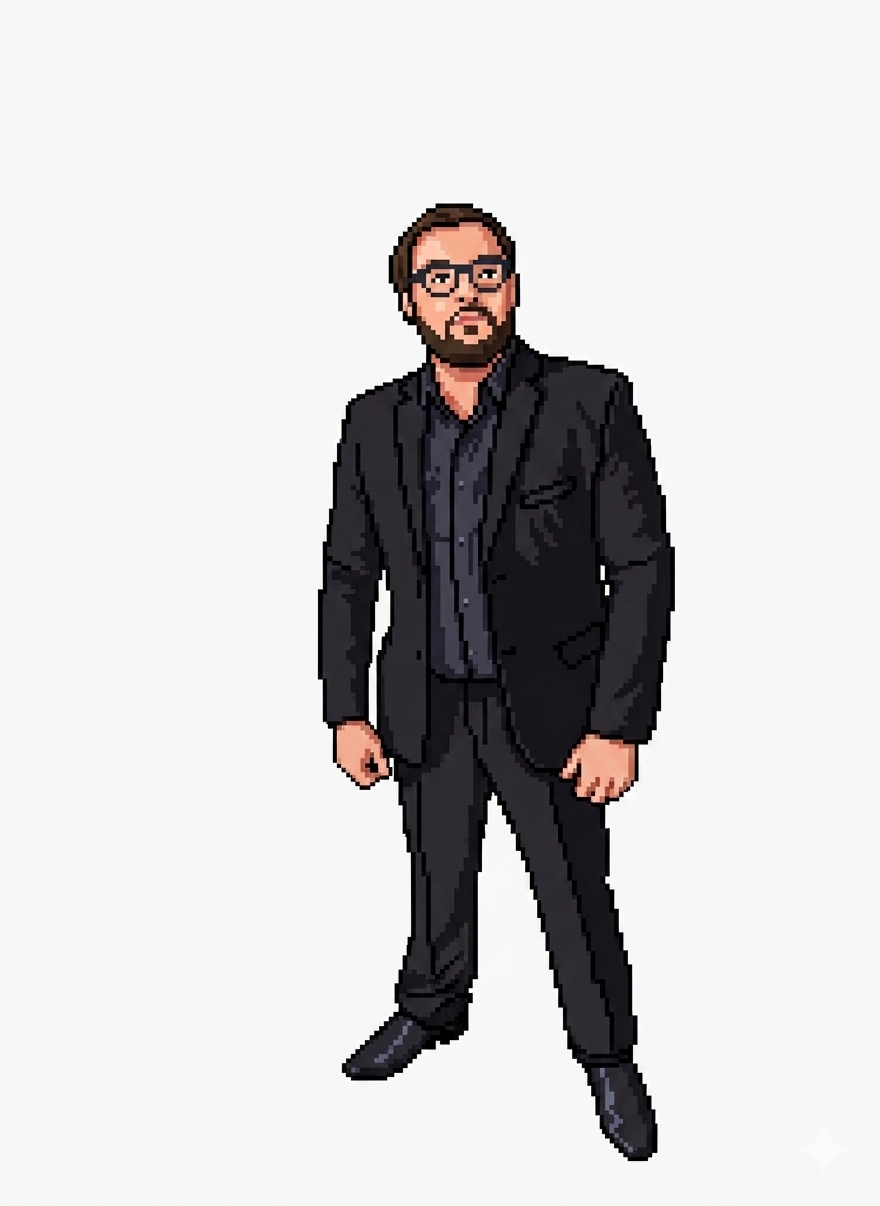
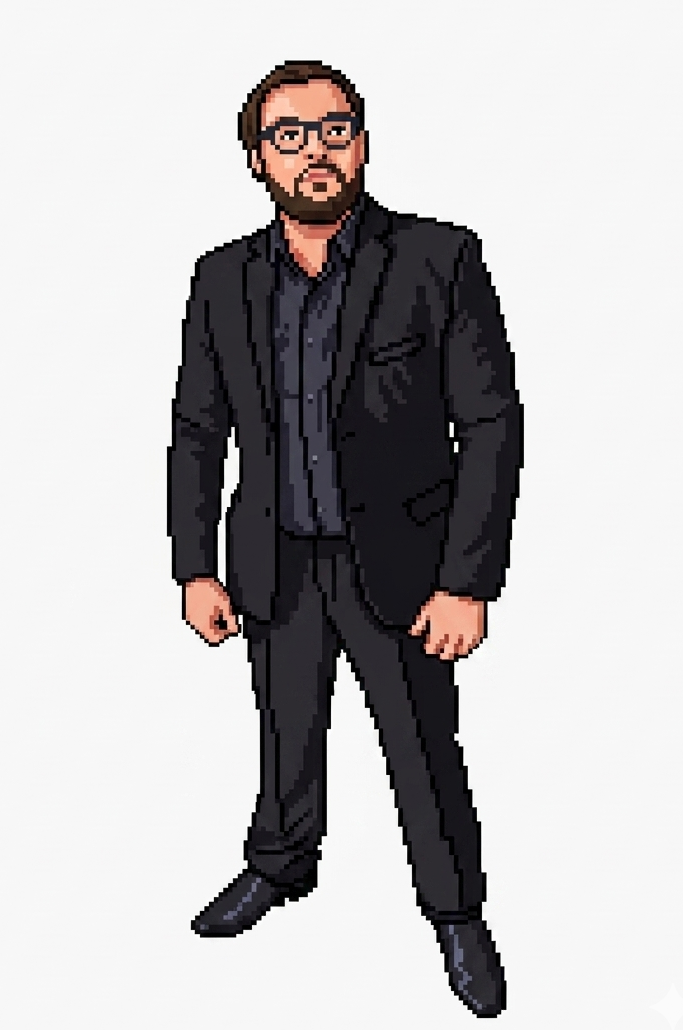
correções finais no menu de seleção

Changed region(s): [[0.246, 0.0311, 0.7687, 0.9942]]

diff --git a/src/jogo.js b/src/jogo.js
@@ -2053,7 +2053,7 @@ class Jogo {
     ctx.fillRect(bx - 6, by - 6, bw + 12, bh + 12);
     const foto = this.recursos.retrato(pers);
     if (foto) {
-      this._desenharThumb(ctx, foto, bx, by, bw, bh);
+      this._desenharThumb(ctx, foto, bx, by, bw, bh, 0.1);
     } else {
       ctx.fillStyle = "#140d1f";
       ctx.fillRect(bx, by, bw, bh);
@@ -2603,7 +2603,7 @@ class Jogo {
         const dw = foto.width * escala,
           dh = foto.height * escala;
         ctx.imageSmoothingEnabled = true;
-        ctx.drawImage(foto, cx - dw / 2, by + (bh - dh) / 2, dw, dh);
+        ctx.drawImage(foto, cx - dw / 2, by + (bh - dh) * 0.1, dw, dh);
       } else {
         const fr = this.recursos.frame(cel.pers, "idle", 0);
         if (fr && fr.ok) {
@@ -2793,7 +2793,7 @@ class Jogo {
       if (cel.tipo === "pers") {
         const foto = this.recursos.retrato(cel.pers);
         if (foto && foto.width) {
-          this._desenharThumb(ctx, foto, x, y, w, th);
+          this._desenharThumb(ctx, foto, x, y, w, th, 0.1);
         } else {
           const fr = this.recursos.frame(cel.pers, "idle", 0);
           ctx.fillStyle = "#0c0a18";
@@ -2849,12 +2849,8 @@ class Jogo {
 
   // Cursor animado de um jogador sobre sua célula atual.
   _cursorSelect(ctx, slot, agora) {
-    if (
-      slot === "p2" &&
-      this.modo === "1p" &&
-      !this.confirmado.p2 &&
-      this.confirmado.p1
-    )
+    // Em 1P, esconde o cursor da CPU apenas na fase 1 (antes de P1 confirmar).
+    if (slot === "p2" && this.modo === "1p" && !this.confirmado.p1)
       return;
     const S = this.select;
     const tema = SELECT_TEMA[slot];
@@ -2879,7 +2875,7 @@ class Jogo {
     this._cantosPixel(ctx, cx, cy, cw, ch, 4, cor);
 
     // Etiqueta do jogador na quina.
-    const tag = slot === "p1" ? "1P" : "2P";
+    const tag = slot === "p1" ? "1P" : this.modo === "1p" ? "CPU" : "2P";
     ctx.fillStyle = cor;
     ctx.fillRect(cx - 2, cy - 16, 24, 16);
     ctx.fillStyle = "#0a0712";
@@ -3069,7 +3065,10 @@ class Jogo {
   // cobrir todo o retângulo e recorta o excedente (sem barras pretas). Como os
   // mapas são bem largos (1920×540), isso mostra o miolo do estágio cheio na
   // célula. O clip garante que o excedente não vaze para fora da borda.
-  _desenharThumb(ctx, img, x, y, w, h) {
+  // topBias: 0 = topo, 0.5 = centro (padrão), 1 = base.
+  // Use 0.5 para mapas/cenários; valores menores (ex.: 0.1) para retratos de
+  // personagens, evitando que a cabeça seja cortada pelo recorte "cover".
+  _desenharThumb(ctx, img, x, y, w, h, topBias = 0.5) {
     ctx.save();
     ctx.beginPath();
     ctx.rect(x, y, w, h);
@@ -3081,7 +3080,7 @@ class Jogo {
       const dw = img.width * escala;
       const dh = img.height * escala;
       ctx.imageSmoothingEnabled = true; // downscale suave fica melhor
-      ctx.drawImage(img, x + (w - dw) / 2, y + (h - dh) / 2, dw, dh);
+      ctx.drawImage(img, x + (w - dw) / 2, y + (h - dh) * topBias, dw, dh);
     }
     ctx.restore();
   }

diff --git a/index.html b/index.html
@@ -1,35 +1,35 @@
-<!DOCTYPE html>
+<!doctype html>
 <html lang="pt-BR">
-<head>
-  <meta charset="UTF-8" />
-  <meta name="viewport" content="width=device-width, initial-scale=1.0" />
-  <title>Mansão Fight — Samuel vs Vitor</title>
-  <link rel="stylesheet" href="style.css" />
-</head>
-<body>
-  <!-- Moldura do jogo. Todo o desenho acontece dentro do <canvas>. -->
-  <div id="moldura">
-    <canvas id="tela" width="960" height="540"></canvas>
-    <!-- Aviso exibido apenas se o manifest não puder ser carregado (ex.: file:// no Chrome). -->
-    <div id="aviso" class="oculto"></div>
-  </div>
+  <head>
+    <meta charset="UTF-8" />
+    <meta name="viewport" content="width=device-width, initial-scale=1.0" />
+    <title>Mansão Fight</title>
+    <link rel="stylesheet" href="style.css" />
+  </head>
+  <body>
+    <!-- Moldura do jogo. Todo o desenho acontece dentro do <canvas>. -->
+    <div id="moldura">
+      <canvas id="tela" width="960" height="540"></canvas>
+      <!-- Aviso exibido apenas se o manifest não puder ser carregado (ex.: file:// no Chrome). -->
+      <div id="aviso" class="oculto"></div>
+    </div>
 
-  <!-- Lógica do jogo, dividida em módulos. São <script> CLÁSSICOS (sem
+    <!-- Lógica do jogo, dividida em módulos. São <script> CLÁSSICOS (sem
        type=module): compartilham o mesmo escopo global, então as classes/consts
        de um arquivo enxergam os dos anteriores. A ORDEM importa — cada arquivo
        só usa o que foi declarado acima dele; main.js (último) dá o boot. -->
-  <script src="src/config.js"></script>
-  <script src="src/constantes.js"></script>
-  <script src="src/recursos.js"></script>
-  <script src="src/mapas.js"></script>
-  <script src="src/animator.js"></script>
-  <script src="src/controles.js"></script>
-  <script src="src/particulas.js"></script>
-  <script src="src/audio.js"></script>
-  <script src="src/projetil.js"></script>
-  <script src="src/fighter.js"></script>
-  <script src="src/selecao.js"></script>
-  <script src="src/jogo.js"></script>
-  <script src="src/main.js"></script>
-</body>
+    <script src="src/config.js"></script>
+    <script src="src/constantes.js"></script>
+    <script src="src/recursos.js"></script>
+    <script src="src/mapas.js"></script>
+    <script src="src/animator.js"></script>
+    <script src="src/controles.js"></script>
+    <script src="src/particulas.js"></script>
+    <script src="src/audio.js"></script>
+    <script src="src/projetil.js"></script>
+    <script src="src/fighter.js"></script>
+    <script src="src/selecao.js"></script>
+    <script src="src/jogo.js"></script>
+    <script src="src/main.js"></script>
+  </body>
 </html>
